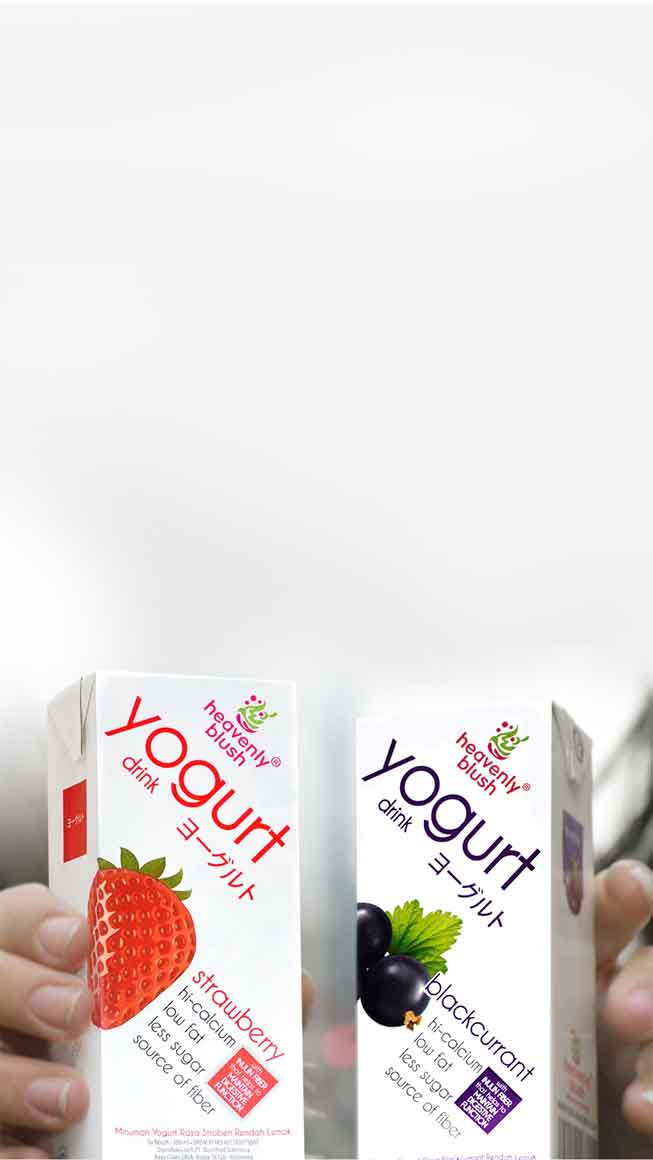
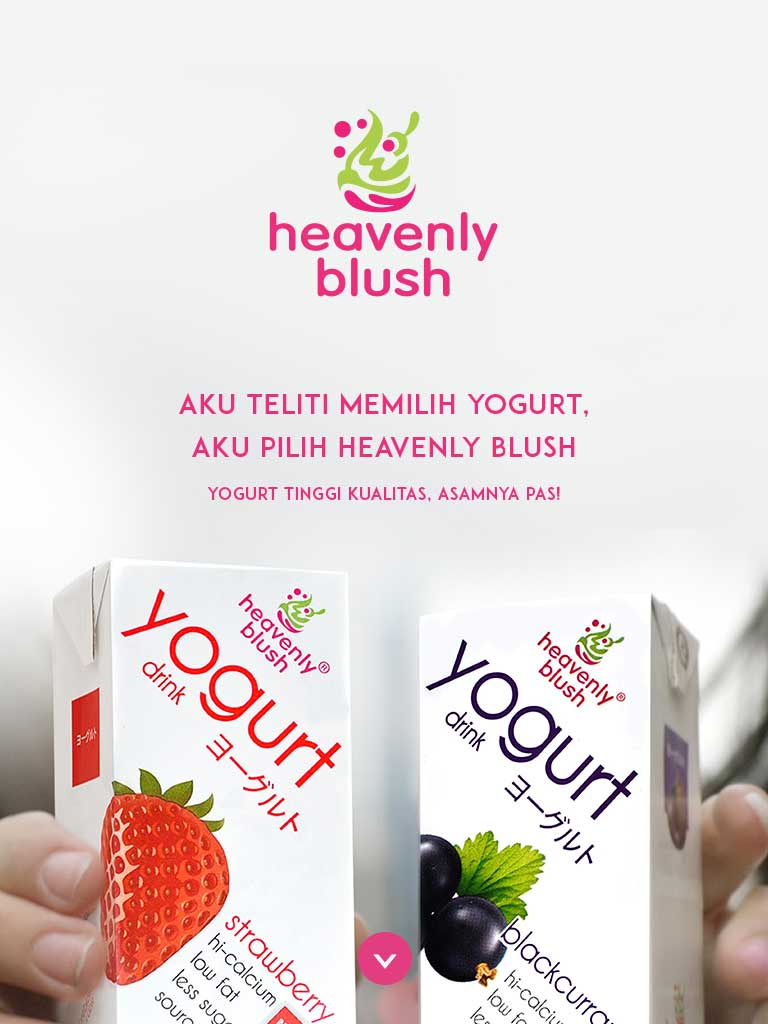
Optimize backgrounds and images for mobile portrait view

diff --git a/index.html b/index.html
@@ -55,8 +55,14 @@
         });
     }
     //preload images
-    $(['img/yo.png','img/yo_splash0.png','img/yo_splash.png','img/strawberry.png','img/yo-1.png','img/yo-2.png','img/yo-3.png','img/yo-blush.png','img/label.png']).preload();
+    $(['img/yo.png','img/yo_splash0.png','img/label-big.png','img/strawberry.png','img/strawberry2.png','img/yo-1.png','img/yo-2.png','img/yo-3.png','img/yo-blush.png','img/label.png','img/label2.png']).preload();
 
+    if(window.innerHeight > window.innerWidth){
+      var mode = 'portrait';
+    }
+    else {
+      var mode = 'landscape';
+    }
     //start fullPage.js
   	var slideIndex1  = 1, slideIndex2  = 1, sliding = false;
   		$(document).ready(function() {
@@ -76,8 +82,8 @@
                 if(index == 3){
                     $('#content3').prepend('<img src="img/yo.png" class="animated imgMini1 bounceInDown" />');
                     setTimeout(function() {
-                      $('#content3').append('<img src="img/text-3.png" class="imgCornerRight imgText animated fadeIn"/>');
-                    }, 1000);
+                      $('#content3').append('<img src="img/text-3.png" class="imgCornerRight imgText imgTextp1 animated fadeIn"/>');
+                    }, 500);
                 }
                 if(index == 4){
                     $.fn.fullpage.moveTo('slide4', 0);
@@ -86,8 +92,8 @@
                       $('#content4').empty();
                       $('#content4').prepend('<img src="img/yo_splash.png" class="imgMini2" />');
                       setTimeout(function() {
-                        $('#content4').append('<img id="text4" src="img/text-4.png" class="imgText imgCornerLeft animated fadeIn"/>');
-                      }, 500);
+                        $('#content4').append('<img id="text4" src="img/text-4.png" class="imgText imgTextp2 imgCornerLeft animated fadeIn"/>');
+                      }, 100);
                     }, 500);
                 }
                 if(index == 5){
@@ -100,9 +106,9 @@
                 if(index == 6){
                     $('#content10').append('<img src="img/yo-3.png" class="imgRealMini animated bounceInLeft"/><img src="img/yo-1.png" class="imgRealMini animated bounceInDown"/><img src="img/yo-2.png" class="imgRealMini animated bounceInRight"/>');
                     setTimeout(function() {
-                      $('#content10').empty();
-                      $('#content10').append('<img src="img/yo-blush.png" class="imgMini4" />');
-                    }, 1500);
+                      //$('#content10').empty();
+                      $('#content10').prepend('<img src="img/label-big.png" class="absoluteCenter imgMini4 animated fadeIn" />');
+                    }, 1000);
                 }
                 if(index == 7){
                   $('#submitForm').removeClass('invisible');
@@ -124,10 +130,14 @@
     			        } else if(index == 4 && !sliding) {
     			            if(direction == 'down' && slideIndex1 < 2) {
                         $('#text4').remove();
-                        $('#content4').append('<img src="img/strawberry.png" class="imgMini3 imgCornerLeft animated bounceInDown" />');
+                        if (mode == 'portrait'){
+                          $('#content4').append('<img src="img/strawberry2.png" class="imgMini3 imgCornerLeft animated bounceInDown" />');
+                        }else {
+                          $('#content4').append('<img src="img/strawberry.png" class="imgMini3 imgCornerLeft animated bounceInDown" />');
+                        }
                         setTimeout(function() {
-                          $('#content4').append('<img src="img/text-5.png" class="imgText imgCornerRight animated fadeIn"/>');
-                        }, 1000);
+                          $('#content4').append('<img src="img/text-5.png" class="imgText imgTextp2 imgCornerRight animated fadeIn"/>');
+                        }, 500);
                         slideIndex1++;
   			                return false;
     			            }
@@ -164,7 +174,11 @@
                     $('#content8').append('<div class="innerbox animated slideInDown">Kandungan gula & lemak yang berlebih akan mengurangi kesempurnaan yogurt. Oleh karena itu, kami mengurangi kadar gula dan lemak sehingga membuat yogurt heavenly blush semakin pas untuk dinikmati setiap hari.</div>');
                   }
                   if(slideIndex == 3) {
-                    $('#content9').append('<img src="img/label.png" class="imgMiniLogo animated fadeIn"></img>');
+                    if (mode == 'portrait'){
+                      $('#content9').prepend('<img src="img/label2.png" class="imgMiniLogo animated fadeIn" />');
+                    }else{
+                      $('#content9').prepend('<img src="img/label.png" class="imgMiniLogo animated fadeIn" />');
+                    }
                   }
     			        sliding = false;
     			    }

diff --git a/css/blush.css b/css/blush.css
@@ -152,6 +152,9 @@ header .intro-text .skills {
     margin: auto;
     overflow: auto;
 }
+.absoluteCenter {
+  position: absolute;
+}
 .top {
 }
 
@@ -608,6 +611,87 @@ div[data-toggle="buttons"] label:active, div[data-toggle="buttons"] label.active
 box-shadow: none;
 }
 
+@media all and (orientation:portrait) {
+  .blush5 {
+      background: url("../img/mob-bg-4.jpg") no-repeat center center scroll;
+      background-color: #fff;
+      -webkit-background-size: cover;
+      -moz-background-size: cover;
+      background-size: cover;
+      -o-background-size: cover;
+  }
+  .blush8 {
+      background: url("../img/mob-bg-5.jpg") no-repeat center center scroll;
+      background-color: #fff;
+      -webkit-background-size: cover;
+      -moz-background-size: cover;
+      background-size: cover;
+      -o-background-size: cover;
+  }
+  .blush9 {
+      background: url("../img/mob-bg-6.jpg") no-repeat center center scroll;
+      background-color: #fff;
+      -webkit-background-size: cover;
+      -moz-background-size: cover;
+      background-size: cover;
+      -o-background-size: cover;
+  }
+
+  .imgMini1 {
+    position: absolute;
+    top: 30%;
+    bottom: 0;
+    left: 0;
+    right: 0;
+    margin: auto;
+    overflow: auto;
+  }
+  .imgMini2 {
+    position: absolute;
+    top: 30%;
+    bottom: 0;
+    left: 0;
+    right: 0;
+    margin: auto;
+    overflow: auto;
+  }
+  .imgMini3 {
+      width: 100%;
+  }
+  .imgMini4 {
+  }
+  .imgTextp1 {
+    top: 0;
+    bottom: 30%;
+    margin: auto;
+    overflow: auto;
+  }
+  .imgTextp2 {
+    top: 0;
+    bottom: 50%;
+    margin: auto;
+    overflow: auto;
+  }
+
+  .imgMiniLogo {
+  }
+  .imgRealMini {
+  }
+
+  .innerbox {
+    background: #fff;
+    opacity: .8;
+    max-width: 100%;
+    font-size: 1.5em;
+    color: #e82d78;
+    margin: 0 10% 75% 10%;
+    padding: 25px;
+    border-radius: 25px;
+    border: 2px solid #e82d78;
+  }
+
+}
+
 @media only screen and (min-width: 1600px) {
     .imgMini1 {
         width: 15%;
@@ -658,7 +742,7 @@ box-shadow: none;
         width: 75%;
     }
     .imgMini3 {
-        width: 150%;
+        width: 100%;
     }
     .imgMini4 {
         width: 93%;
@@ -667,7 +751,7 @@ box-shadow: none;
         width: 200%;
     }
     .imgMiniLogo {
-        width: 50%;
+        width: 70%;
     }
     .imgRealMini {
         width: 32%;
@@ -681,7 +765,7 @@ box-shadow: none;
       max-width: 100%;
       font-size: 1em;
       color: #e82d78;
-      margin: 0 10% 30% 10%;
+      margin: 0 0 75% 0;
       padding: 25px;
       border-radius: 25px;
       border: 2px solid #e82d78;
